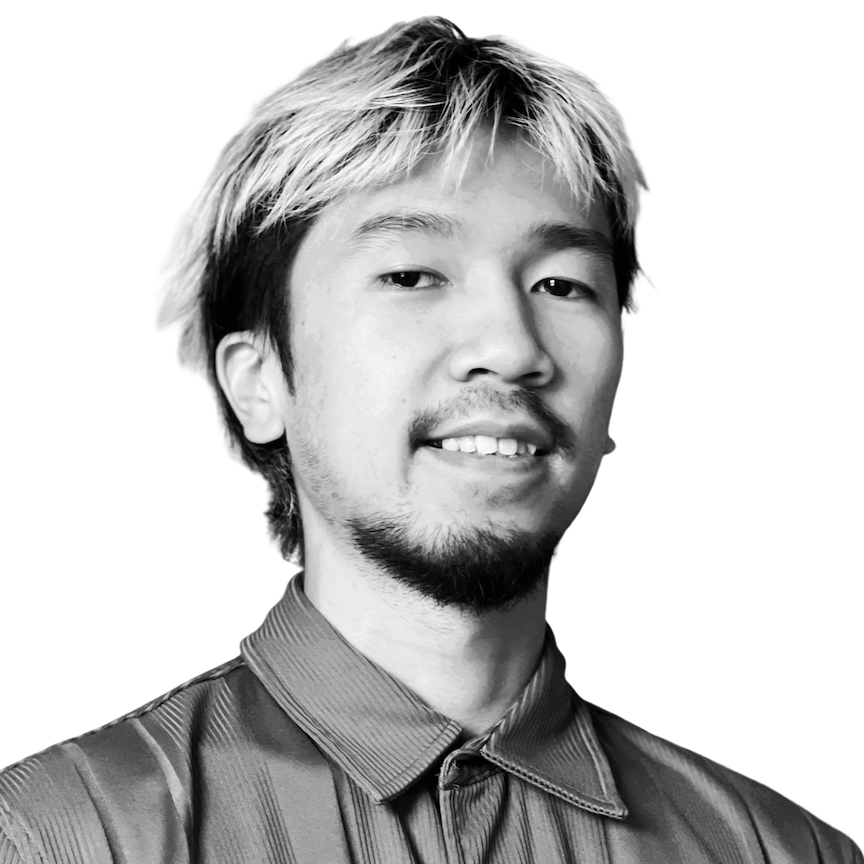
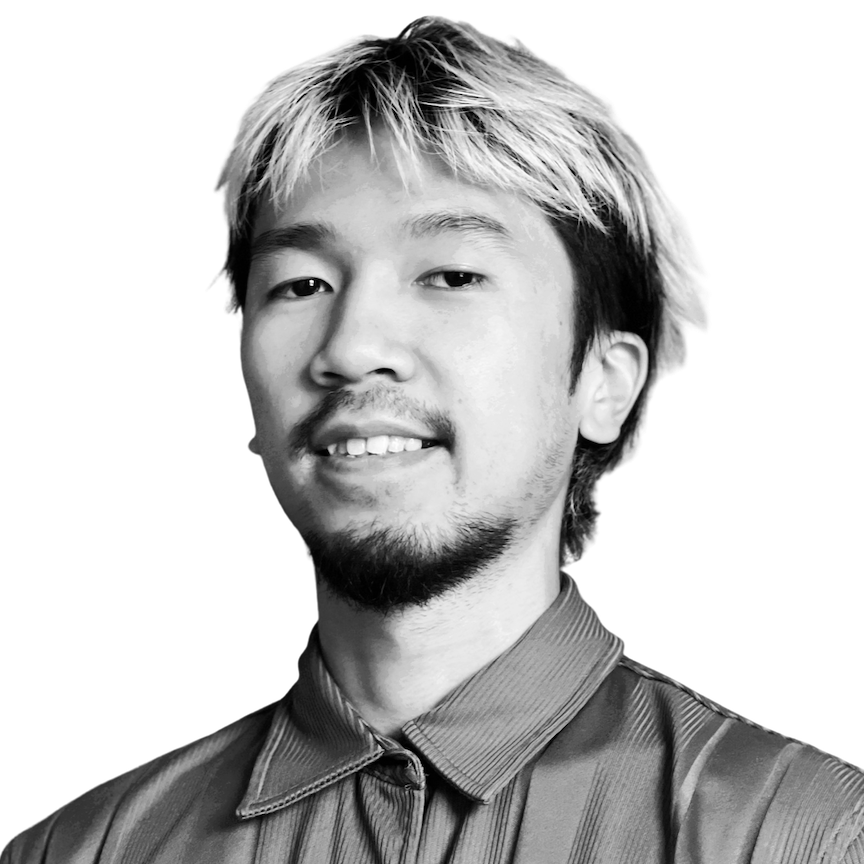
fix portrait flip

diff --git a/components/About/About.module.scss b/components/About/About.module.scss
@@ -99,10 +99,6 @@
   border-color: map-get(colors.$background, 'main');
 }
 
-.portrait {
-  transform: scaleX(-1);
-}
-
 .skills {
   font-size: 1.25rem;
 }
